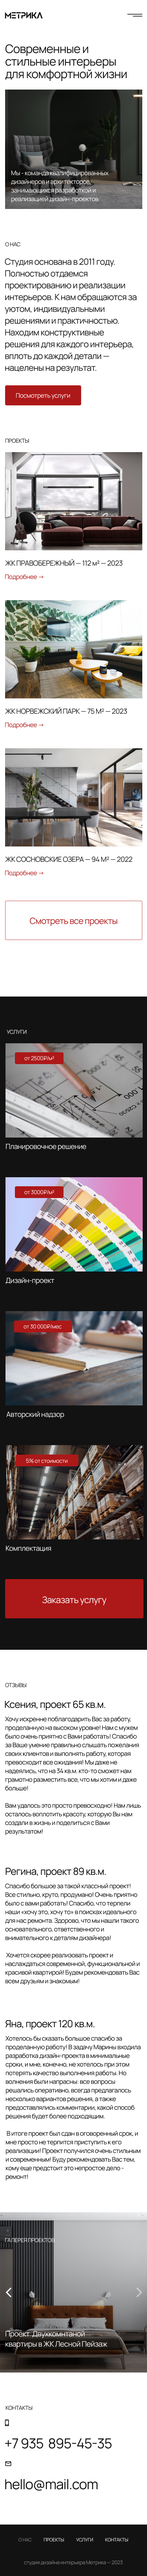
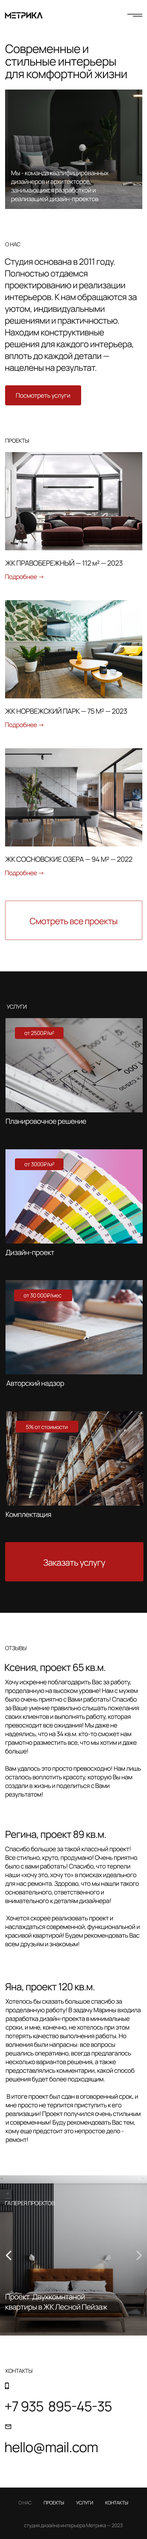
corrected layout

diff --git a/css/style.css b/css/style.css
@@ -307,11 +307,11 @@ div {
   margin-bottom: 32px;
 }
 .services__list {
-  margin-bottom: 108px;
+  margin-bottom: 102px;
   display: flex;
   flex-wrap: wrap;
   column-gap: 11px;
-  row-gap: 45px;
+  row-gap: 80px;
 }
 .services .service {
   position: relative;
@@ -322,7 +322,6 @@ div {
   margin-bottom: 25px;
 }
 .services .service__title {
-  max-width: 250px;
   color: #fff;
   margin-left: 3px;
 }
@@ -339,7 +338,7 @@ div {
   background-color: #AD1818;
 }
 .services .add-prop-service .service__img {
-  margin-bottom: 17px;
+  margin-bottom: 25px;
 }
 .services__container .services__button {
   color: #fff;
@@ -423,8 +422,8 @@ div {
 .reviews__list {
   display: flex;
   flex-wrap: wrap;
-  column-gap: 13px;
-  row-gap: 113px;
+  column-gap: 53px;
+  row-gap: 83px;
 }
 .reviews .review {
   margin-left: -2px;
@@ -432,6 +431,9 @@ div {
 }
 .reviews .review:last-child {
   margin-right: 290px;
+}
+.reviews .review:not(:last-child) {
+  max-width: 530px;
 }
 .reviews .review__title {
   margin-bottom: 14px;
@@ -445,7 +447,7 @@ div {
 }
 
 .gallery {
-  margin-top: 9px;
+  margin-top: 5px;
   position: relative;
 }
 .gallery__title-wrapper {
@@ -639,7 +641,7 @@ div {
   }
   .services__list {
     margin-bottom: 72px;
-    row-gap: 80px;
+    row-gap: 67px;
   }
   .services .service__img {
     height: 315px;
@@ -659,8 +661,8 @@ div {
     margin-bottom: 14px;
   }
   .services .add-prop-service .service__title {
-    font-size: 30px;
-    line-height: 40.98px;
+    font-size: 25px;
+    line-height: 34.15px;
   }
   .reviews {
     padding-top: 120px;
@@ -710,7 +712,7 @@ div {
     margin-right: 13px;
   }
   .contacts {
-    padding: 120px 0 80px;
+    padding: 120px 0 123px;
   }
   .contacts__title {
     margin-bottom: 73px;
@@ -805,7 +807,7 @@ div {
     font-size: 16px;
   }
   .projects {
-    padding-bottom: 142px !important;
+    padding-bottom: 79px !important;
   }
   .projects__list {
     row-gap: 47px;
@@ -828,9 +830,9 @@ div {
     padding: 80px 0 82px 0 !important;
   }
   .services__list {
-    margin-bottom: 57px;
+    margin-bottom: 50px;
     flex-direction: column;
-    row-gap: 56px;
+    row-gap: 48px;
   }
   .services .service__img {
     height: 240px;

diff --git a/#resources/layout/_reviews.scss b/#resources/layout/_reviews.scss
@@ -1,33 +1,35 @@
 .reviews {
+  &__title {
+    margin-bottom: 32px;
+  }
+
+  &__list {
+    display: flex;
+    flex-wrap: wrap;
+    column-gap: 53px;
+    row-gap: 83px;
+  }
+
+  .review {
+    &:last-child {
+      margin-right: 290px;
+    }
+    &:not(:last-child) {
+      max-width: 530px;
+    }
+    margin-left: -2px;
+    flex: 1 0 46%;
+
     &__title {
-        margin-bottom: 32px;
+      margin-bottom: 14px;
+      font-size: 45px;
+      line-height: 60.5px;
     }
 
-    &__list {
-        display: flex;
-        flex-wrap: wrap;
-        column-gap: 13px;
-        row-gap: 113px;
+    &__text {
+      text-align: left;
+      font-size: 22px;
+      line-height: 30.3px;
     }
-    
-    .review {
-        &:last-child {
-            margin-right: 290px;
-        }
-        margin-left: -2px;
-        flex: 1 0 46%;
-
-
-        &__title {
-            margin-bottom: 14px;
-            font-size: 45px;
-            line-height: 60.5px;
-        }
-
-        &__text {
-            text-align: left;
-            font-size: 22px;
-            line-height: 30.3px;
-        }
-    }
+  }
 }

diff --git a/#resources/style.scss b/#resources/style.scss
@@ -161,7 +161,7 @@ div {
   .services {
     &__list {
       margin-bottom: 72px;
-      row-gap: 80px;
+      row-gap: 67px;
     }
 
     .service {
@@ -189,8 +189,8 @@ div {
       }
 
       .service__title {
-        font-size: 30px;
-        line-height: 40.98px;
+        font-size: 25px;
+        line-height: 34.15px
       }
     }
   }
@@ -252,7 +252,7 @@ div {
   }
 
   .contacts {
-    padding: 120px 0 80px;
+    padding: 120px 0 123px;
     &__title {
       margin-bottom: 73px;
     }
@@ -378,7 +378,7 @@ div {
   }
 
   .projects {
-    padding-bottom: 142px !important;
+    padding-bottom: 79px !important;
     &__list {
       row-gap: 47px;
     }
@@ -409,9 +409,9 @@ div {
     // padding-bottom: 80px !important;
 
     &__list {
-      margin-bottom: 57px;
+      margin-bottom: 50px;
       flex-direction: column;
-      row-gap: 56px;
+      row-gap: 48px;
     }
 
     .service {

diff --git a/#resources/layout/_services.scss b/#resources/layout/_services.scss
@@ -7,11 +7,11 @@
   }
 
   &__list {
-    margin-bottom: 108px;
+    margin-bottom: 102px;
     display: flex;
     flex-wrap: wrap;
     column-gap: 11px;
-    row-gap: 45px;
+    row-gap: 80px;
   }
 
   .service {
@@ -24,7 +24,7 @@
     }
 
     &__title {
-      max-width: 250px;
+
       color: #fff;
       margin-left: 3px;
     }
@@ -44,7 +44,7 @@
   }
   .add-prop-service {
     .service__img {
-      margin-bottom: 17px;
+      margin-bottom: 25px;
     }
   }
   &__container &__button {

diff --git a/#resources/layout/_gallery.scss b/#resources/layout/_gallery.scss
@@ -1,5 +1,5 @@
 .gallery {
-  margin-top: 9px;
+  margin-top: 5px;
   position: relative;
   &__title-wrapper {
     @extend %absolute-position;
